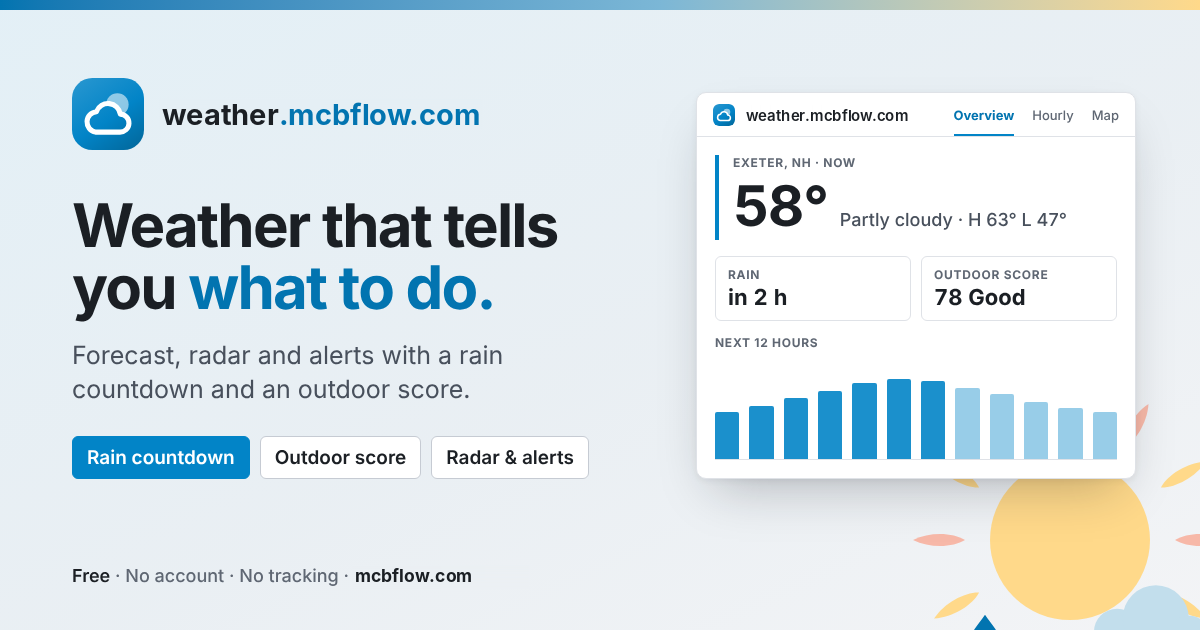
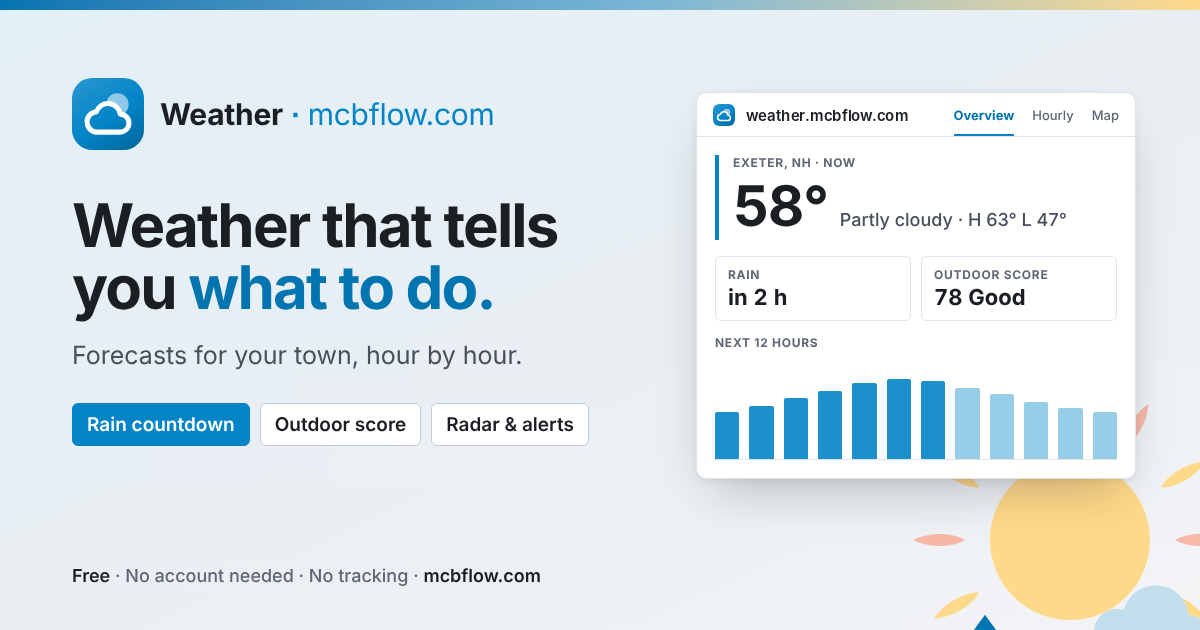
Add files via upload

Changed region(s): [[0.0617, 0.5429, 0.4933, 0.7841], [0.1233, 0.1508, 0.4008, 0.2111], [0.185, 0.9048, 0.4625, 0.9349]]

diff --git a/index.html b/index.html
@@ -15,24 +15,24 @@
 <meta name="apple-mobile-web-app-capable" content="yes">
 <meta name="mobile-web-app-capable" content="yes">
 <meta name="apple-mobile-web-app-title" content="Weather">
-<meta name="description" content="Free weather forecast, radar map and alerts. No accounts, no ads, no tracking.">
+<meta name="description" content="Free weather forecast, radar map and alerts. No account needed, no ads, no tracking.">
 <link rel="canonical" href="https://weather.mcbflow.com/">
 <meta property="og:type" content="website">
 <meta property="og:site_name" content="weather.mcbflow.com">
-<meta property="og:title" content="weather.mcbflow.com: weather that tells you what to do">
-<meta property="og:description" content="Free forecast, radar and alerts with a rain countdown and an outdoor score. No account, no ads, no tracking.">
+<meta property="og:title" content="Weather: a forecast that tells you what to do">
+<meta property="og:description" content="Free forecast, radar and alerts with a rain countdown and an outdoor score. No account needed, no ads, no tracking.">
 <meta property="og:url" content="https://weather.mcbflow.com/">
 <meta property="og:image" content="https://weather.mcbflow.com/og-image.png?v=3">
 <meta property="og:image:type" content="image/png">
 <meta property="og:image:width" content="1200">
 <meta property="og:image:height" content="630">
-<meta property="og:image:alt" content="weather.mcbflow.com: weather that tells you what to do. The app's forecast panel with the temperature, rain timing and an outdoor score.">
+<meta property="og:image:alt" content="Weather: a forecast that tells you what to do. The app's forecast panel with the temperature, rain timing and an outdoor score.">
 <meta name="twitter:card" content="summary_large_image">
-<meta name="twitter:title" content="weather.mcbflow.com: weather that tells you what to do">
-<meta name="twitter:description" content="Free forecast, radar and alerts with a rain countdown and an outdoor score. No account, no ads, no tracking.">
+<meta name="twitter:title" content="Weather: a forecast that tells you what to do">
+<meta name="twitter:description" content="Free forecast, radar and alerts with a rain countdown and an outdoor score. No account needed, no ads, no tracking.">
 <meta name="twitter:image" content="https://weather.mcbflow.com/og-image.png?v=3">
-<meta name="twitter:image:alt" content="weather.mcbflow.com: weather that tells you what to do.">
-<script type="application/ld+json">{"@context":"https://schema.org","@type":"WebApplication","name":"weather.mcbflow.com","alternateName":"Weather","url":"https://weather.mcbflow.com/","description":"Free weather forecast, radar map and alerts with a rain countdown and an outdoor score. Runs in the browser with no account, no ads and no tracking.","applicationCategory":"UtilitiesApplication","operatingSystem":"Any (web browser)","browserRequirements":"Requires JavaScript","inLanguage":"en","isAccessibleForFree":true,"offers":{"@type":"Offer","price":"0","priceCurrency":"USD"},"image":"https://weather.mcbflow.com/og-image.png"}</script>
+<meta name="twitter:image:alt" content="Weather: a forecast that tells you what to do.">
+<script type="application/ld+json">{"@context":"https://schema.org","@type":"WebApplication","name":"weather.mcbflow.com","alternateName":"Weather","url":"https://weather.mcbflow.com/","description":"Free weather forecast, radar map and alerts with a rain countdown and an outdoor score. Runs in the browser with no account needed, no ads and no tracking.","applicationCategory":"UtilitiesApplication","operatingSystem":"Any (web browser)","browserRequirements":"Requires JavaScript","inLanguage":"en","isAccessibleForFree":true,"offers":{"@type":"Offer","price":"0","priceCurrency":"USD"},"image":"https://weather.mcbflow.com/og-image.png"}</script>
 <style>
 /* Layout: dense field dashboard. Search bar, sky hero, sticky section nav, then work windows, hourly table, charts, atmosphere, field/soil, 10-day, sun/moon. */
 /* ---- theme: "Utility" (Raspberry) - neutral desktop-software palette, one raspberry accent, light + dark. Theme is always set via data-theme (head script): light unless the user chose dark. ---- */

diff --git a/404.html b/404.html
@@ -26,8 +26,8 @@ a:focus-visible{outline:2px solid var(--accent);outline-offset:2px;border-radius
 header{width:min(720px,100% - 32px);margin:0 auto;padding:20px 0 0}
 .brand{display:inline-flex;align-items:center;gap:10px;color:var(--ink);text-decoration:none;font-weight:650;font-size:16px}
 .brand svg{width:34px;height:34px;flex:none;border-radius:8px}
-.brand i{font-style:normal;color:var(--accent)}
-.brand i .sep{display:inline-block;margin:0 .32em 0 .34em;color:var(--muted);font-weight:400}
+.brand i{font-style:normal;color:var(--accent);font-weight:400}
+.brand i .sep{display:inline-block;margin:0 .32em 0 .34em;color:var(--accent);font-weight:700}
 main{flex:1;width:min(720px,100% - 32px);margin:18px auto 24px}
 .card{position:relative;overflow:hidden;background:var(--surface);border:1px solid var(--border);border-radius:8px;
  box-shadow:0 1px 2px rgba(20,24,31,.06),0 12px 32px -18px rgba(20,24,31,.28);padding:28px 28px 0}
